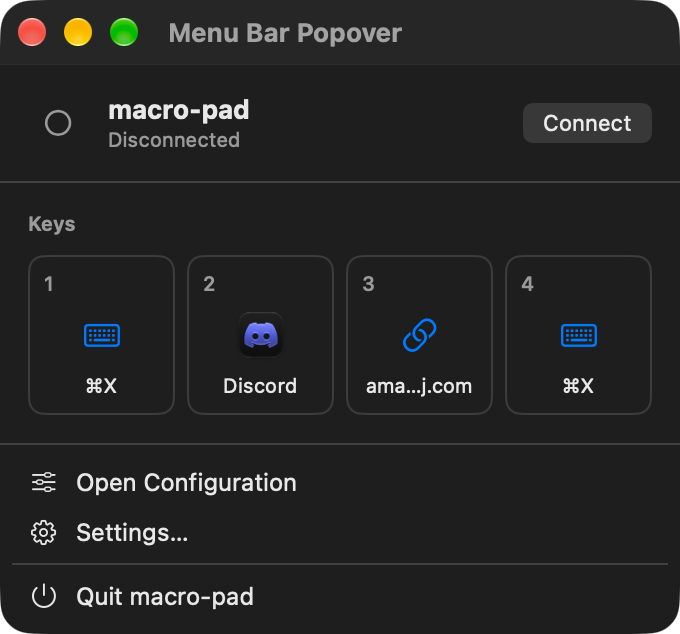
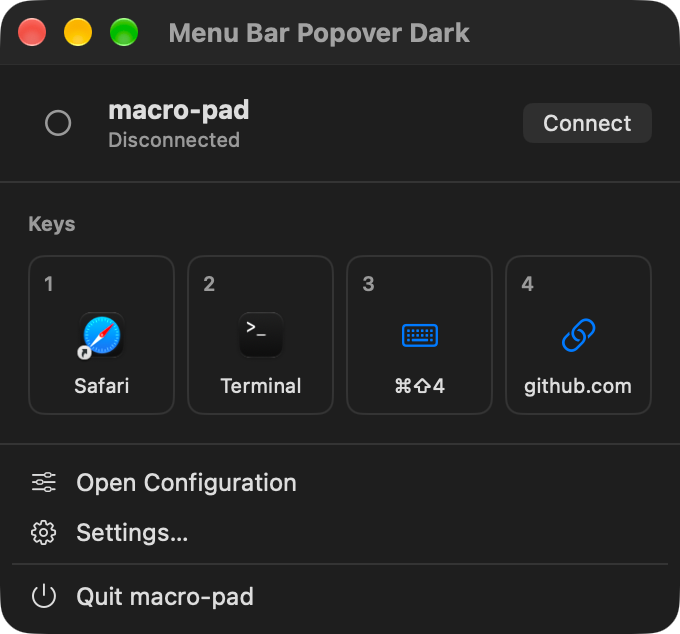
Add deterministic SwiftUI preview screenshots

diff --git a/macos/AppModel.swift b/macos/AppModel.swift
@@ -106,7 +106,8 @@ final class AppModel {
         store: ConfigurationStore,
         ble: BLEController,
         executor: ActionExecutor,
-        applicationMonitor: ApplicationContextMonitor? = nil
+        applicationMonitor: ApplicationContextMonitor? = nil,
+        startServices: Bool = true
     ) {
         self.store = store
         self.ble = ble
@@ -130,8 +131,10 @@ final class AppModel {
         self.applicationMonitor.onChange = { [weak self] application in
             self?.receiveApplicationActivation(application)
         }
-        self.applicationMonitor.start()
-        ble.restoreAutomaticConnection()
+        if startServices {
+            self.applicationMonitor.start()
+            ble.restoreAutomaticConnection()
+        }
     }
 
     var selectedKeyID: MacroKey = .one
@@ -458,3 +461,92 @@ final class AppModel {
         }
     }
 }
+
+#if DEBUG
+@MainActor
+enum PreviewFixtures {
+    static func model(profile: Bool = false, device: Bool = false) -> AppModel {
+        let store = ConfigurationStore(
+            fileURL: FileManager.default.temporaryDirectory
+                .appending(path: "macro-pad-preview-\(UUID().uuidString).json")
+        )
+        let model = AppModel(
+            store: store,
+            ble: BLEController(),
+            executor: ActionExecutor(),
+            startServices: false
+        )
+        var configuration = AppConfiguration()
+        configuration.appearance = profile || device ? .light : .dark
+        configuration.keys = defaultAssignments()
+
+        if profile {
+            var discord = ApplicationProfile(
+                bundleIdentifier: "com.hnc.Discord",
+                displayName: "Discord",
+                applicationBookmark: bookmark(for: "/Applications/Discord.app")
+            )
+            var shortcut = KeyConfiguration(id: .one)
+            shortcut.actionKind = .keyboardShortcut
+            shortcut.shortcut = ShortcutDefinition(
+                keyCode: 40,
+                keyLabel: "K",
+                command: true
+            )
+            discord.assignments[0].mode = .override
+            discord.assignments[0].override = shortcut
+            discord.assignments[1].mode = .inheritDefault
+            discord.assignments[2].mode = .disabled
+            discord.assignments[3].mode = .inheritDefault
+            configuration.applicationProfiles = [discord]
+            model.editingProfileID = discord.bundleIdentifier
+            model.selectedKeyID = .one
+        } else {
+            model.selectedKeyID = .three
+        }
+
+        if device {
+            configuration.selectedPeripheralID = UUID(uuidString: "7A4D1000-5A7E-4D2F-9C6B-4B0A3E6D0100")
+            configuration.selectedPeripheralName = BLEProtocol.deviceName
+            configuration.automaticallyReconnect = true
+        }
+
+        model.configuration = configuration
+        return model
+    }
+
+    private static func defaultAssignments() -> [KeyConfiguration] {
+        var safari = KeyConfiguration(id: .one)
+        safari.actionKind = .launchApplication
+        safari.applicationName = "Safari"
+        safari.applicationBookmark = bookmark(for: "/Applications/Safari.app")
+
+        var terminal = KeyConfiguration(id: .two)
+        terminal.actionKind = .launchApplication
+        terminal.applicationName = "Terminal"
+        terminal.applicationBookmark = bookmark(for: "/System/Applications/Utilities/Terminal.app")
+
+        var screenshot = KeyConfiguration(id: .three)
+        screenshot.actionKind = .keyboardShortcut
+        screenshot.shortcut = ShortcutDefinition(
+            keyCode: 21,
+            keyLabel: "4",
+            command: true,
+            shift: true
+        )
+
+        var github = KeyConfiguration(id: .four)
+        github.actionKind = .openURL
+        github.urlString = "https://github.com/amansanoj/macro-pad"
+        return [safari, terminal, screenshot, github]
+    }
+
+    private static func bookmark(for path: String) -> Data? {
+        try? URL(fileURLWithPath: path).bookmarkData(
+            options: .minimalBookmark,
+            includingResourceValuesForKeys: nil,
+            relativeTo: nil
+        )
+    }
+}
+#endif

diff --git a/macos/ContentView.swift b/macos/ContentView.swift
@@ -1048,30 +1048,16 @@ struct MediaInspector: View {
     }
 }
 
-#Preview {
-    ContentView(model: AppModel())
+#Preview("Configuration Dark") {
+    ContentView(model: PreviewFixtures.model())
+        .frame(width: 820, height: 340)
+        .preferredColorScheme(.dark)
+        .allowsHitTesting(false)
 }
 
-#Preview("Application Profile") {
-    let store = ConfigurationStore(
-        fileURL: FileManager.default.temporaryDirectory
-            .appending(path: "macro-pad-profile-preview.json")
-    )
-    let model = AppModel(store: store, ble: BLEController(), executor: ActionExecutor())
-    var configuration = model.configuration
-    configuration.keys[0].actionKind = .keyboardShortcut
-    configuration.keys[0].shortcut = ShortcutDefinition(
-        keyCode: 20,
-        keyLabel: "3",
-        command: true,
-        shift: true
-    )
-    var profile = ApplicationProfile(bundleIdentifier: "com.hnc.Discord", displayName: "Discord")
-    profile.assignments[0].mode = .override
-    profile.assignments[0].override = KeyConfiguration(id: .one)
-    profile.assignments[1].mode = .disabled
-    configuration.applicationProfiles = [profile]
-    model.configuration = configuration
-    model.editingProfileID = profile.bundleIdentifier
-    return ContentView(model: model)
+#Preview("Application Profiles Light") {
+    ContentView(model: PreviewFixtures.model(profile: true))
+        .frame(width: 820, height: 340)
+        .preferredColorScheme(.light)
+        .allowsHitTesting(false)
 }

diff --git a/macro-pad-tests/MacroPadTests.swift b/macro-pad-tests/MacroPadTests.swift
@@ -268,8 +268,8 @@ struct ActionPresentationTests {
 @Suite("Shortcut recording")
 struct ShortcutRecordingTests {
     @Test("Quartz events preserve key codes and modifiers", arguments: [
-        (keyCode: UInt16(21), flags: CGEventFlags([.maskCommand, .maskShift]), display: "⇧⌘4"),
-        (keyCode: UInt16(20), flags: CGEventFlags([.maskCommand, .maskShift]), display: "⇧⌘3"),
+        (keyCode: UInt16(21), flags: CGEventFlags([.maskCommand, .maskShift]), display: "⌘⇧4"),
+        (keyCode: UInt16(20), flags: CGEventFlags([.maskCommand, .maskShift]), display: "⌘⇧3"),
         (keyCode: UInt16(8), flags: CGEventFlags.maskCommand, display: "⌘C"),
         (keyCode: UInt16(12), flags: CGEventFlags.maskCommand, display: "⌘Q"),
         (keyCode: UInt16(49), flags: CGEventFlags.maskCommand, display: "⌘Space"),

diff --git a/macos/Models.swift b/macos/Models.swift
@@ -162,8 +162,8 @@ struct ShortcutDefinition: Codable, Equatable, Sendable {
         var value = ""
         if control { value += "⌃" }
         if option { value += "⌥" }
-        if shift { value += "⇧" }
         if command { value += "⌘" }
+        if shift { value += "⇧" }
         let renderedKey = keyLabel.count == 1 ? keyLabel.uppercased() : keyLabel
         return value + renderedKey
     }

diff --git a/macos/MacroPadApp.swift b/macos/MacroPadApp.swift
@@ -337,8 +337,10 @@ struct MenuBarActions: View {
     }
 }
 
-#Preview("Menu Bar Popover") {
-    MenuBarPopover(model: AppModel())
+#Preview("Menu Bar Popover Dark") {
+    MenuBarPopover(model: PreviewFixtures.model())
+        .preferredColorScheme(.dark)
+        .allowsHitTesting(false)
 }
 
 struct MenuBarActionButton: View {

diff --git a/macos/SettingsView.swift b/macos/SettingsView.swift
@@ -173,3 +173,11 @@ struct AboutSettings: View {
         .formStyle(.grouped)
     }
 }
+
+#Preview("Device Settings Light") {
+    DeviceSettings(model: PreviewFixtures.model(device: true))
+        .scenePadding()
+        .frame(width: 500, height: 310)
+        .preferredColorScheme(.light)
+        .allowsHitTesting(false)
+}

diff --git a/README.md b/README.md
@@ -4,10 +4,13 @@ macro-pad turns four mechanical switches connected to an ESP32-WROOM-32 into a c
 
 **Verification status:** the macOS application builds, 41 Swift tests pass, and firmware compiles for PlatformIO's `esp32dev` target and Arduino CLI's `esp32:esp32:esp32` target. Physical BLE discovery, switch behavior, and end-to-end macro execution still require an ESP32-WROOM-32 hardware acceptance run. No hardware result is implied by successful compilation.
 
+![macro-pad configuration in Dark Mode with Safari, Terminal, screenshot shortcut, and GitHub assignments](screenshots/configuration-dark.png)
+
 ## Index
 
 - [Overview](#overview)
 - [Features](#features)
+- [Screenshots](#screenshots)
 - [Hardware and wiring](#hardware-and-wiring)
 - [How it works](#how-it-works)
 - [Installation](#installation)
@@ -44,9 +47,13 @@ The companion is a native SwiftUI/AppKit menu bar utility with a compact status 
 - Simulation for all four keys through the real event dispatcher
 - Native application icons, readable URL hostnames, and action-specific key symbols
 
-![macro-pad menu bar popover](screenshots/menu-bar-popover-dark.png)
+## Screenshots
 
-![macro-pad configuration window](screenshots/configuration-light.png)
+![macro-pad menu bar popover in Dark Mode with four configured keys](screenshots/menu-bar-popover-dark.png)
+
+![macro-pad Discord application profile in Light Mode showing override, inherited, and disabled assignments](screenshots/application-profiles-light.png)
+
+![macro-pad Device settings in Light Mode showing disconnected state and automatic reconnection](screenshots/device-settings-light.png)
 
 ## Hardware and wiring
 
